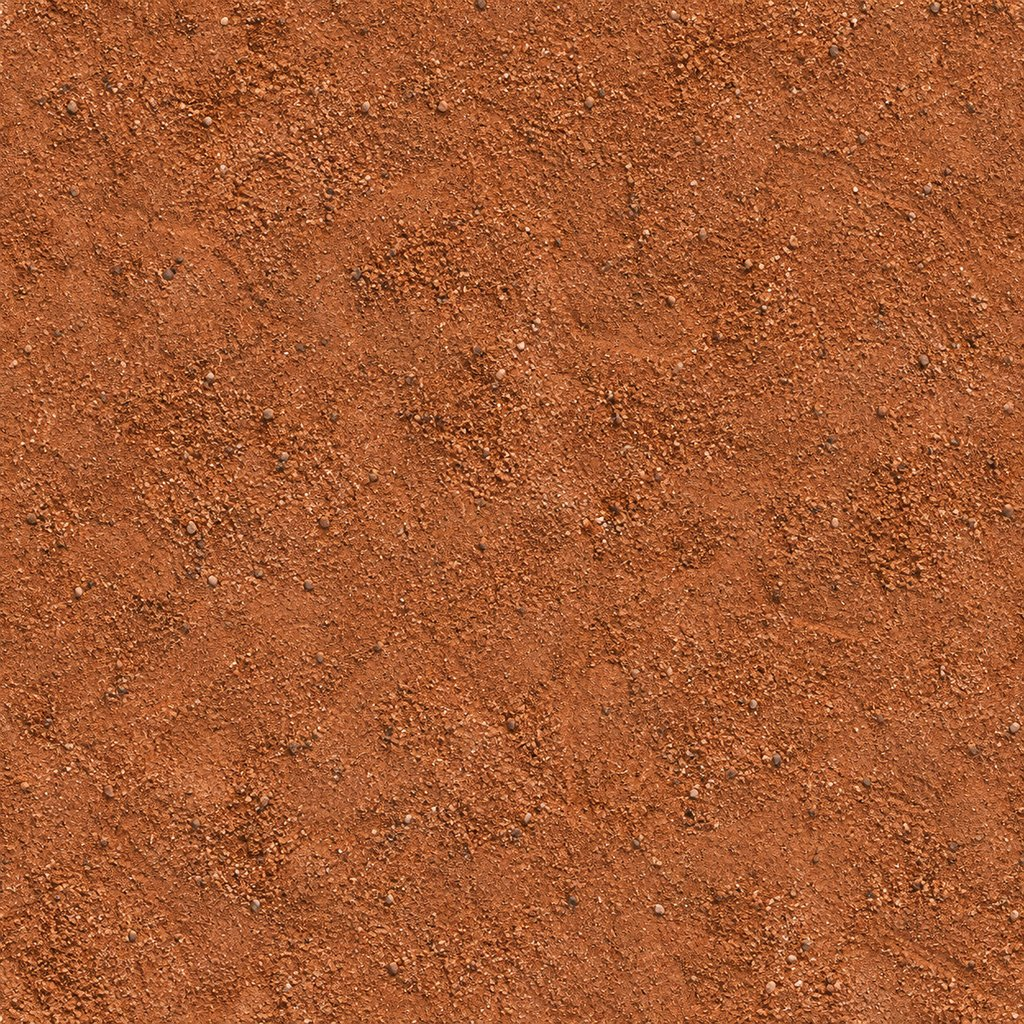
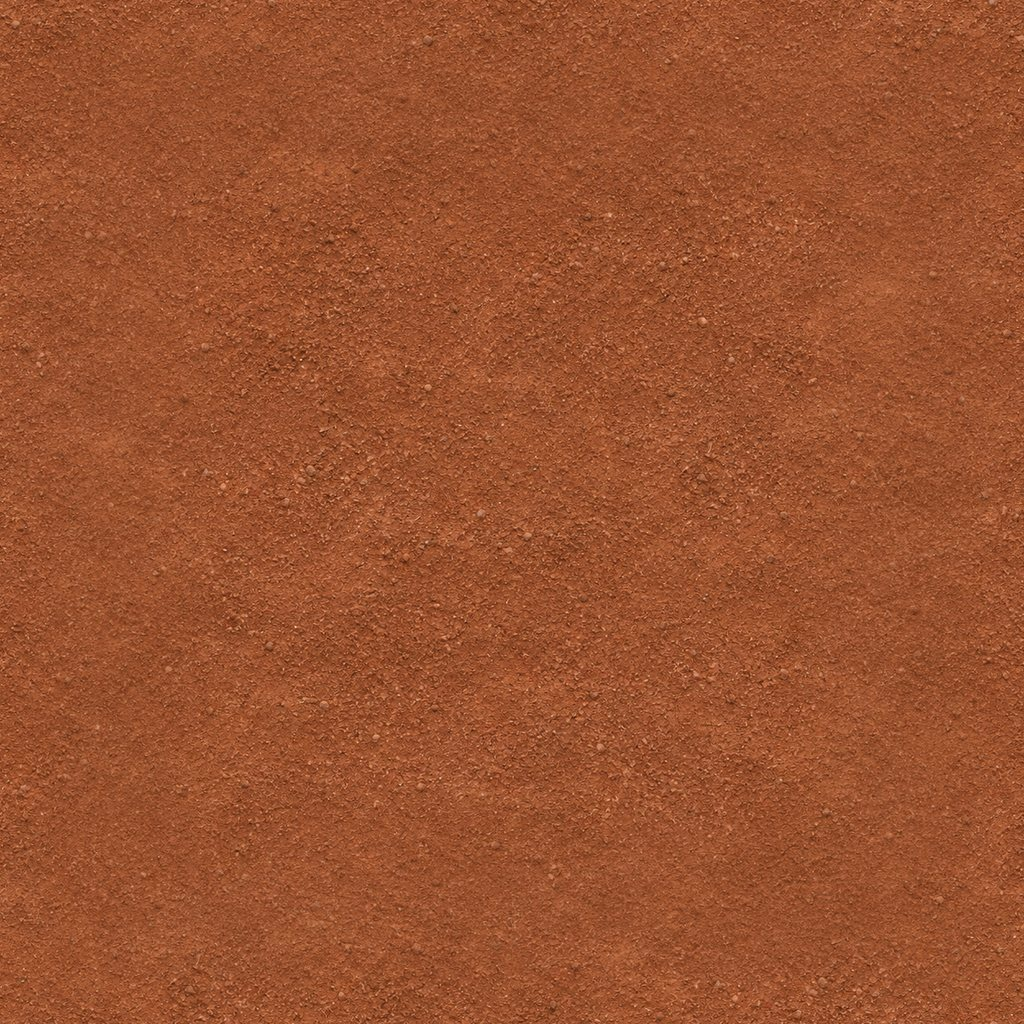
경기장 텍스처 교체: 잠실 스카이라인·잔디·흙·마운드·워닝트랙·펜스·콘크리트
- 원경: 롯데타워 스카이라인 사진(낮/밤), 좌중간 뒤에 타워, 관중석 위로 보이게 높이 조정, 상자 빌딩·3D 타워 숨김
- 그라운드: 새 잔디·내야 흙, 마운드 전용 흙, 워닝트랙 전용 텍스처(펜스 앞 4.5m)
- 외야 펜스 패딩 사진, 관중석 콘크리트 사진
- 전광판·광고 글자 HOMERUN KING → JAMSIL / WALK-OFF

Claude-Session: https://claude.ai/code/session_01ALtPsYLuzGjPRYQbyaeH1H

diff --git a/client/stadium/env.js b/client/stadium/env.js
@@ -80,7 +80,7 @@ export function buildEnv(world, opt, Q, M) {
     for (let i = 0; i < Q.cityBoxes; i++) { const a = R() * Math.PI * 2, r = 900 + R() * 900; placeBox(Math.cos(a) * r, Math.sin(a) * r + 40, 30 + R() * 40, 30 + Math.pow(R(), 2) * 120, 25 + R() * 20, R() * 3, i % 3); }
     // 강 건너 스카이라인
     for (let i = 0; i < Q.cityBoxes; i++) { const x = -2600 + R() * 5200, z = 1560 + R() * 600, w = 30 + R() * 50, h = 30 + Math.pow(R(), 2) * 140; placeBox(x, z, w, h, 30, 0, i % 3); }
-    groups.forEach((gs, i) => { if (!gs.length) return; const mat = new THREE.MeshBasicMaterial({ map: winTexs[i], color: '#c0c6d4', name: 'city' + i }); const m = new THREE.Mesh(mergeGeometries(gs), mat); m.userData.sh = 'none'; world.add(m); refs.winMats.push(mat); });
+    groups.forEach((gs, i) => { if (!gs.length) return; const mat = new THREE.MeshBasicMaterial({ map: winTexs[i], color: '#c0c6d4', name: 'city' + i }); const m = new THREE.Mesh(mergeGeometries(gs), mat); m.userData.sh = 'none'; m.userData.keep = true; world.add(m); refs.winMats.push(mat); (refs.city ||= []).push(m); }); // keep: 스카이라인 사진이 뜨면 숨김(병합 제외)
   }
   // ── 롯데월드타워 (남동쪽 약 2.3km, 555m) — 잠실 랜드마크 ──
   {
@@ -88,10 +88,10 @@ export function buildEnv(world, opt, Q, M) {
     const body = new THREE.LatheGeometry(prof, 4); body.rotateY(Math.PI / 4);
     const strips = canvasTex(64, 512, (g, w, h) => { g.fillStyle = '#0a0e17'; g.fillRect(0, 0, w, h); for (let y = 0; y < h; y += 5) { g.fillStyle = `rgba(255,225,170,${0.3 + R() * 0.5})`; g.fillRect(2, y, w - 4, 2); } g.fillStyle = 'rgba(160,210,255,.85)'; g.fillRect(0, 0, 3, h); g.fillRect(w - 3, 0, 3, h); });
     const twm = new THREE.MeshBasicMaterial({ map: strips, fog: false, color: '#c9d3e6', name: 'tower' });
-    const tw = new THREE.Mesh(body, twm); tw.position.set(-1620, -2, -1640); world.add(tw);
-    refs.tower = { m: twm, night: strips, day: canvasTex(64, 512, (g, w, h) => { const gr = g.createLinearGradient(0, 0, w, 0); gr.addColorStop(0, '#8fa3bb'); gr.addColorStop(0.5, '#d6e0ea'); gr.addColorStop(1, '#7d90a8'); g.fillStyle = gr; g.fillRect(0, 0, w, h); for (let y = 0; y < h; y += 6) { g.fillStyle = 'rgba(40,60,90,.18)'; g.fillRect(0, y, w, 1); } }) };
+    const tw = new THREE.Mesh(body, twm); tw.position.set(-1620, -2, -1640); tw.userData.keep = true; world.add(tw);
+    refs.tower = { mesh: tw, m: twm, night: strips, day: canvasTex(64, 512, (g, w, h) => { const gr = g.createLinearGradient(0, 0, w, 0); gr.addColorStop(0, '#8fa3bb'); gr.addColorStop(0.5, '#d6e0ea'); gr.addColorStop(1, '#7d90a8'); g.fillStyle = gr; g.fillRect(0, 0, w, h); for (let y = 0; y < h; y += 6) { g.fillStyle = 'rgba(40,60,90,.18)'; g.fillRect(0, y, w, 1); } }) };
     const beacon = new THREE.Sprite(new THREE.SpriteMaterial({ map: glowTex(), color: '#ff5a4a', transparent: true, blending: THREE.AdditiveBlending, fog: false, depthWrite: false }));
-    beacon.scale.set(40, 40, 1); beacon.position.set(-1620, 558, -1640); world.add(beacon); refs.nightOnly.push(beacon);
+    beacon.scale.set(40, 40, 1); beacon.position.set(-1620, 558, -1640); world.add(beacon); refs.nightOnly.push(beacon); refs.tower.beacon = beacon;
   }
   // ── 한강 (북쪽 +z) + 다리 + 강변 불빛 ──
   {
@@ -111,14 +111,17 @@ export function buildEnv(world, opt, Q, M) {
   }
   // ── 원경 파노라마 사진 (서울 스카이라인, 낮/밤) — 위쪽은 하늘과 섞이게 알파 ──
   {
-    const am = canvasTex(4, 256, (g, w, h) => { const gr = g.createLinearGradient(0, 0, 0, h); gr.addColorStop(0, '#000'); gr.addColorStop(0.42, '#000'); gr.addColorStop(0.62, '#fff'); gr.addColorStop(1, '#fff'); g.fillStyle = gr; g.fillRect(0, 0, w, h); });
-    const pano = new THREE.Mesh(new THREE.CylinderGeometry(3000, 3000, 640, 64, 1, true), new THREE.MeshBasicMaterial({ color: '#ffffff', side: THREE.BackSide, fog: false, transparent: true, opacity: 0, depthWrite: false, alphaMap: am, name: 'pano' }));
-    pano.position.y = 250; pano.renderOrder = -1; world.add(pano);
+    // [stadium 11-24] 새 스카이라인(롯데타워)이 위쪽까지 보이게 알파 구간을 올림(전 0.42→0.62, 지금 0.05→0.16)
+    const am = canvasTex(4, 256, (g, w, h) => { const gr = g.createLinearGradient(0, 0, 0, h); gr.addColorStop(0, '#000'); gr.addColorStop(0.05, '#000'); gr.addColorStop(0.16, '#fff'); gr.addColorStop(1, '#fff'); g.fillStyle = gr; g.fillRect(0, 0, w, h); });
+    const pano = new THREE.Mesh(new THREE.CylinderGeometry(3000, 3000, 1400, 96, 1, true), new THREE.MeshBasicMaterial({ color: '#ffffff', side: THREE.BackSide, fog: false, transparent: true, opacity: 0, depthWrite: false, alphaMap: am, name: 'pano' }));
+    pano.position.y = 610; pano.renderOrder = -1; world.add(pano); // [stadium 11-24] 1400m 높이: 사진 지평선 ≈ 고각 4°(외야석 위로 아파트), 타워 끝 ≈ 20° (전 640m·y250 은 관중석에 다 가려졌음)
     refs.pano = pano;
     const L = new THREE.TextureLoader();
     for (const k of ['skyDay', 'skyNight']) {
       const info = opt.tex && opt.tex[k]; if (!info || !info.url) continue;
-      L.load(info.url, (t) => { t.colorSpace = THREE.SRGBColorSpace; t.wrapS = THREE.MirroredRepeatWrapping; t.repeat.set(6, 1); t.anisotropy = 4; refs[k] = t; if (refs.onPano) refs.onPano(); }, undefined, () => {});
+      // [stadium 11-24] 잠실 스카이라인: 파일 = [원본(롯데타워) | 타워 지운 거울본] 이어 붙인 띠(이음매 없음, 타워 1개). 한 바퀴에 2번 → 타워는 180° 떨어져 한 화면엔 1개.
+      //  실린더 u=0 이 중견수 방향(+z), u 는 3루 쪽(+x)으로 증가. 타워가 좌중간 뒤(u≈0.056)에 오게: off = 띠 속 타워 x - 0.111 (낮 0.355, 밤 0.331)
+      L.load(info.url, (t) => { t.colorSpace = THREE.SRGBColorSpace; t.wrapS = THREE.RepeatWrapping; t.repeat.set(2, 1); t.offset.x = (k === 'skyNight' ? 0.331 : 0.355) - 0.111; t.anisotropy = 8; refs[k] = t; if (refs.onPano) refs.onPano(); }, undefined, () => {});
     }
   }
   // ── 하늘 돔: 그라데이션 + 해 번짐 + 구름(낮) / 지평선 도시 불빛(밤) ──
@@ -173,6 +176,10 @@ export function buildEnv(world, opt, Q, M) {
     else { U.top.value.set('#2a66c8'); U.mid.value.set('#79aee6'); U.hor.value.set('#d9e6f0'); }
     const pt = refs[night ? 'skyNight' : 'skyDay'];
     if (pt) { refs.pano.material.map = pt; refs.pano.material.opacity = 1; refs.pano.material.needsUpdate = true; }
+    if (pt && refs.tower.mesh.visible) { // 사진(스카이라인·롯데타워)이 있으니 상자 빌딩·3D 타워는 숨김 — 사진 앞에 회색 상자가 겹쳐 보였음
+      refs.tower.mesh.visible = false; refs.tower.beacon.visible = false; refs.nightOnly.splice(refs.nightOnly.indexOf(refs.tower.beacon), 1);
+      for (const m of refs.city || []) m.visible = false;
+    }
     refs.river.m.map = night ? refs.river.nightMap : null; refs.river.m.color.set(night ? '#8fa0c0' : '#5d7f9e'); refs.river.m.needsUpdate = true;
     for (const m of refs.winMats) { if (!m.userData.nightMap) m.userData.nightMap = m.map; const dt = dayWindowTex(); dt.repeat.copy(m.userData.nightMap.repeat); m.map = night ? m.userData.nightMap : dt; m.needsUpdate = true; }
     refs.tower.m.map = night ? refs.tower.night : refs.tower.day; refs.tower.m.needsUpdate = true;

diff --git a/client/stadium/field.js b/client/stadium/field.js
@@ -113,24 +113,33 @@ export function buildField(world, opt, Q) {
   const U = {
     detail: { value: detailTex }, pGrass: { value: detailTex }, pDirt: { value: detailTex },
     gAvg: { value: new THREE.Vector3(0.5, 0.5, 0.5) }, dAvg: { value: new THREE.Vector3(0.5, 0.5, 0.5) }, hasG: { value: 0 }, hasD: { value: 0 },
+    pTrack: { value: detailTex }, tAvg: { value: new THREE.Vector3(0.5, 0.5, 0.5) }, hasT: { value: 0 }, // [stadium 11-24] 워닝트랙 사진
     uMow: { value: 0.11 }, // 예초 무늬 세기
   };
+  const UM = { ...U, pDirt: { value: detailTex }, dAvg: { value: new THREE.Vector3(0.5, 0.5, 0.5) }, hasD: { value: 0 }, hasT: { value: 0 } }; // 마운드·불펜(dirtMat)용: 흙만 마운드 사진
   const loader = new THREE.TextureLoader();
   for (const [k, info] of Object.entries(opt.tex || {})) {
-    if (!info || !info.url || (k !== 'grass' && k !== 'dirt')) continue;
+    if (!info || !info.url || !['grass', 'dirt', 'mound', 'track'].includes(k)) continue;
     loader.load(info.url, (t) => {
       t.wrapS = t.wrapT = THREE.RepeatWrapping; t.colorSpace = THREE.NoColorSpace; t.anisotropy = 8; t.needsUpdate = true;
-      if (k === 'grass') { U.pGrass.value = t; U.gAvg.value.set(...(info.avg || [0.5, 0.5, 0.5])); U.hasG.value = 1; }
-      else { U.pDirt.value = t; U.dAvg.value.set(...(info.avg || [0.5, 0.5, 0.5])); U.hasD.value = 1; }
+      const avg = info.avg || [0.5, 0.5, 0.5];
+      if (k === 'grass') { U.pGrass.value = t; U.gAvg.value.set(...avg); U.hasG.value = 1; }
+      else if (k === 'dirt') { U.pDirt.value = t; U.dAvg.value.set(...avg); U.hasD.value = 1; if (!UM.hasD.value) { UM.pDirt.value = t; UM.dAvg.value.set(...avg); UM.hasD.value = 1; } }
+      else if (k === 'mound') { UM.pDirt.value = t; UM.dAvg.value.set(...avg); UM.hasD.value = 2; }
+      else { U.pTrack.value = t; U.tAvg.value.set(...avg); U.hasT.value = 1; }
     }, undefined, () => {});
   }
   const H = BASES[1][1];
-  const onCompile = (sh) => {
-    Object.assign(sh.uniforms, U);
+  const mkCompile = (UU) => (sh) => {
+    Object.assign(sh.uniforms, UU);
     sh.vertexShader = inject(sh.vertexShader, '#include <common>', '#include <common>\nvarying vec2 vWxz;');
     sh.vertexShader = inject(sh.vertexShader, '#include <fog_vertex>', '#include <fog_vertex>\nvWxz = (modelMatrix * vec4(transformed, 1.0)).xz;');
     sh.fragmentShader = inject(sh.fragmentShader, '#include <common>', `#include <common>
 uniform sampler2D detail; uniform sampler2D pGrass; uniform sampler2D pDirt; uniform vec3 gAvg; uniform vec3 dAvg; uniform float hasG; uniform float hasD; uniform float uMow;
+uniform sampler2D pTrack; uniform vec3 tAvg; uniform float hasT;
+// 워닝트랙 경계 = shared/sim.js fenceR/standR 와 같은 식 (펜스 앞 4.5m, 파울 지역 벽 앞 2.8m)
+float hrFenceR(float a){ a = min(abs(a), 0.78539816); return 100.0 + 25.0 * pow(max(0.0, cos(2.0 * a)), 0.8); }
+float hrStandR(float ph){ float a = abs(ph); if (a <= 0.78539816) return hrFenceR(ph); if (a > 2.35619449) return 18.0 + 4.0 * (3.14159265 - a) / 0.78539816; return max(18.0, min(100.0, 22.0 / sin(a - 0.78539816))); }
 varying vec2 vWxz;
 // 안티에일리어싱 사각파: 멀어서 줄무늬가 픽셀보다 작아지면 저절로 0으로 수렴 (모아레 없음)
 float hrSq(float x) { float fw = max(fwidth(x), 1e-4); return clamp(sin(3.14159265 * x) / (3.14159265 * fw * 1.2), -1.0, 1.0); }`);
@@ -145,7 +154,12 @@ float hrSq(float x) { float fw = max(fwidth(x), 1e-4); return clamp(sin(3.141592
  vec3 g1 = texture2D(pGrass, p * 0.42).rgb / gAvg, g2 = texture2D(pGrass, p * 0.11 + 0.37).rgb / gAvg;
  vec3 d1 = texture2D(pDirt, p * 0.55).rgb / dAvg, d2 = texture2D(pDirt, p * 0.13 + 0.61).rgb / dAvg;
  vec3 gm = mix(vec3(0.8 + 0.3 * dt1), mix(g1, g2, 0.35), hasG);
- vec3 dm = mix(vec3(0.8 + 0.3 * dt1), mix(d1, d2, 0.3), hasD);
+ vec3 dm = mix(vec3(0.8 + 0.3 * dt1), mix(d1, d2, 0.3), min(hasD, 1.0));
+ if (hasD > 1.5) dm = mix(texture2D(pDirt, p * 0.9).rgb, texture2D(pDirt, p * 0.21 + 0.4).rgb, 0.3) / dAvg; // 마운드: 더 잘게
+ { float ph = atan(p.x, p.y), rr = length(p); float edge = abs(ph) <= 0.78539816 ? hrFenceR(ph) - 4.5 : hrStandR(ph) - 2.8;
+   float tr = smoothstep(edge - 0.25, edge + 0.25, rr) * hasT;
+   vec3 t1 = texture2D(pTrack, p * 0.5).rgb / tAvg, t2 = texture2D(pTrack, p * 0.12 + 0.2).rgb / tAvg;
+   dm = mix(dm, mix(t1, t2, 0.3), tr); }
  vec3 m = mix(gm, dm, isDirt);
  m = mix(m, vec3(0.95 + 0.06 * dt1), isLine);
  diffuseColor.rgb *= clamp(m, 0.45, 1.7) * (1.0 + 0.16 * (dt2 - 0.5));
@@ -161,7 +175,7 @@ float hrSq(float x) { float fw = max(fwidth(x), 1e-4); return clamp(sin(3.141592
  diffuseColor.rgb *= 1.0 + uMow * mow * isGrass;
 }`);
   };
-  fieldMat.onBeforeCompile = onCompile;
+  fieldMat.onBeforeCompile = mkCompile(U);
   fieldMat.customProgramCacheKey = () => 'hr-field';
   { // 그라운드 = 관중석 경계선 안쪽만
     const pts = [], N = 360;
@@ -173,7 +187,7 @@ float hrSq(float x) { float fw = max(fwidth(x), 1e-4); return clamp(sin(3.141592
   }
   // 흙 재질(마운드·불펜) — 같은 셰이더, 단색 흙
   const dirtMat = new THREE.MeshStandardMaterial({ color: DIRT, roughness: 1 });
-  dirtMat.onBeforeCompile = onCompile; dirtMat.customProgramCacheKey = () => 'hr-field';
+  dirtMat.onBeforeCompile = mkCompile(UM); dirtMat.customProgramCacheKey = () => 'hr-field';
   const chalk = new THREE.MeshStandardMaterial({ color: CHALK, roughness: 0.8 });
   { // 마운드 (높이 25cm)
     // [model] 단면을 바깥(지면) → 가운데(정상) 순서로: LatheGeometry 는 점 순서로 면 방향이 정해짐. 전엔 가운데 → 바깥이라 면·노멀이

diff --git a/client/stadium/scoreboard.js b/client/stadium/scoreboard.js
@@ -21,7 +21,7 @@ export function buildScoreboard(world, M, ads) {
     const fm = new THREE.Mesh(mergeGeometries(frame), M.steelDark); fm.userData.sh = 'big'; world.add(fm);
     const scr = new THREE.Mesh(new THREE.PlaneGeometry(SB.w, SB.h), new THREE.MeshBasicMaterial({ map: sbTex, toneMapped: false, name: 'scoreboard' }));
     scr.position.set(0, SB.y, SB.z); scr.rotation.y = Math.PI; scr.userData.keep = true; world.add(scr);
-    const top = textMesh('HOMERUN KING BALLPARK', 3.0, { color: '#ffd23a', bg: '#0b0f18', px: 96 });
+    const top = textMesh('JAMSIL BASEBALL STADIUM', 3.0, { color: '#ffd23a', bg: '#0b0f18', px: 96 });
     top.position.set(0, SB.y + SB.h / 2 + 4.6, SB.z + 0.15); top.rotation.y = Math.PI; world.add(top);
     // 보조 화면 = 회전 LED 광고 (ad12~22)
     for (const sx of [-1, 1]) {
@@ -48,7 +48,7 @@ export function buildScoreboard(world, M, ads) {
     } else {
       // 라인스코어
       g.fillStyle = '#0d2a1a'; g.fillRect(0, 0, W, 70);
-      g.fillStyle = '#ffd23a'; g.font = '700 44px Oswald, sans-serif'; g.textAlign = 'left'; g.fillText('HOMERUN KING', 30, 37);
+      g.fillStyle = '#ffd23a'; g.font = '700 44px Oswald, sans-serif'; g.textAlign = 'left'; g.fillText('WALK-OFF', 30, 37);
       const inns = Math.max(9, s && s.ls ? Math.max(s.ls[0].length, s.ls[1].length) : 9);
       const x0 = 300, cw = Math.min(78, (W * 0.62 - x0) / inns);
       g.font = '700 38px Oswald, sans-serif'; g.fillStyle = '#8fa1c4'; g.textAlign = 'center';
@@ -92,7 +92,7 @@ export function buildScoreboard(world, M, ads) {
       // 하단 띠
       g.fillStyle = '#0b1120'; g.fillRect(0, H - 70, W, 70);
       g.fillStyle = '#9fb0d0'; g.font = '700 34px "Noto Sans KR", sans-serif'; g.textAlign = 'left';
-      g.fillText(extra.ticker || '홈런왕 볼파크 · 홈런왕 리그', 30, H - 35);
+      g.fillText(extra.ticker || '잠실 야구장 · WALK-OFF 리그', 30, H - 35);
     }
     // LED 격자
     g.fillStyle = 'rgba(0,0,0,.18)'; for (let y = 0; y < H; y += 4) g.fillRect(0, y, W, 1); for (let x = 0; x < W; x += 4) g.fillRect(x, 0, 1, H);

diff --git a/client/stadium/ads.js b/client/stadium/ads.js
@@ -12,7 +12,7 @@ export function createAds(urls) {
   const canvas = document.createElement('canvas'); canvas.width = CW * COLS; canvas.height = CH * ROWS;
   const g = canvas.getContext('2d');
   const tex = new THREE.CanvasTexture(canvas); tex.colorSpace = THREE.SRGBColorSpace; tex.anisotropy = 8;
-  const fallback = [['#0f3d2a', '#ffd23a', 'HOMERUN KING'], ['#1e4f8c', '#ffffff', 'PLAY BALL'], ['#b52a2f', '#ffffff', 'BALLPARK'], ['#202835', '#ff9b3d', 'SEOUL NIGHT']];
+  const fallback = [['#0b1b33', '#c9a227', 'WALK-OFF'], ['#1e4f8c', '#ffffff', 'PLAY BALL'], ['#b52a2f', '#ffffff', 'BALLPARK'], ['#202835', '#ff9b3d', 'SEOUL NIGHT']];
   const drawFallback = (i) => {
     const [bg, fg, t] = fallback[i % fallback.length], x = (i % COLS) * CW, y = Math.floor(i / COLS) * CH;
     g.fillStyle = bg; g.fillRect(x, y, CW, CH); g.fillStyle = fg; g.font = '900 46px Oswald, sans-serif'; g.textAlign = 'center'; g.textBaseline = 'middle'; g.fillText(t, x + CW / 2, y + CH / 2 + 2);

diff --git a/client/stadium/materials.js b/client/stadium/materials.js
@@ -88,6 +88,8 @@ export function createMaterials(opt) {
   load('facade', (t) => { M.facade.map = t; M.facade.needsUpdate = true; });
   load('concrete', (t) => { for (const m of [M.concrete, M.concreteDark, M.downlight]) { m.map = t; m.needsUpdate = true; } });
   load('roof', (t) => { M.roof.map = t; M.roof.needsUpdate = true; });
+  // [stadium 11-24] 외야 펜스 패딩 사진: 펜스 uv = (호 길이/4m, 높이) → 사진 한 장(패널 6개)이 8m
+  load('wallpad', (t) => { t.repeat.set(0.5, 1); t.wrapT = THREE.ClampToEdgeWrapping; M.pad.map = t; M.pad.color.set('#ffffff'); const d = dim.find((x) => x.m === M.pad); if (d) d.base.set('#ffffff'); M.pad.needsUpdate = true; });
   M.setNight = (night) => {
     for (const d of dim) d.m.color.copy(d.base).multiplyScalar(night ? d.nightK : 1);
     M.facade.emissiveIntensity = night ? 0.9 : 0;

diff --git a/client/main.js b/client/main.js
@@ -78,6 +78,9 @@ const adURLs = (window.HR_ASSETS && window.HR_ASSETS.ads) || Array.from({ length
 const TEX = (window.HR_ASSETS && window.HR_ASSETS.tex) || {
   dirt: { url: './assets/tex/dirt.jpg', avg: TEX_AVG.dirt },
   grass: { url: './assets/tex/grass.jpg', avg: TEX_AVG.grass },
+  mound: { url: './assets/tex/mound.jpg', avg: TEX_AVG.mound }, // [stadium 11-24] 마운드·불펜 흙
+  track: { url: './assets/tex/track.jpg', avg: TEX_AVG.track }, // 워닝트랙
+  wallpad: { url: './assets/tex/wallpad.jpg' }, // 외야 펜스 패딩
   crowd: { url: './assets/tex/crowd.jpg' },
   skyDay: { url: './assets/tex/sky_day.jpg' },
   skyNight: { url: './assets/tex/sky_night.jpg' },

diff --git a/client/stadium/index.js b/client/stadium/index.js
@@ -31,7 +31,7 @@ export const STADIUM_Q = {
 // 파일을 넣었으면 해당 값을 true 로 → 없으면 절차적 텍스처로 그림(404 요청 안 보냄)
 export const OPTIONAL_TEX = {
   facade: { file: 'stadium_facade.jpg', on: false },
-  concrete: { file: 'stadium_concrete.jpg', on: false },
+  concrete: { file: 'stadium_concrete.jpg', on: true }, // [stadium 11-24]
   roof: { file: 'stadium_roof.jpg', on: false },
   crowdAtlas: { file: 'crowd_atlas.png', on: false },
   fieldLogo: { file: 'field_logo.png', on: false },

diff --git a/client/texinfo.js b/client/texinfo.js
@@ -1,3 +1,3 @@
 // 그라운드 사진 텍스처 평균색 (tools에서 이미지 처리할 때 갱신)
-export const TEX_AVG = { dirt: [0.646, 0.356, 0.198], grass: [0.324, 0.435, 0.132] };
+export const TEX_AVG = { dirt: [0.606, 0.325, 0.188], grass: [0.278, 0.462, 0.065], mound: [0.519, 0.275, 0.149], track: [0.558, 0.288, 0.218] }; // [stadium 11-24] 새 GPT 텍스처
 export const FACE_SKINS = []; // 사진 얼굴은 안 씀(스타일 맞춤) — 코드로 그린 얼굴 사용
